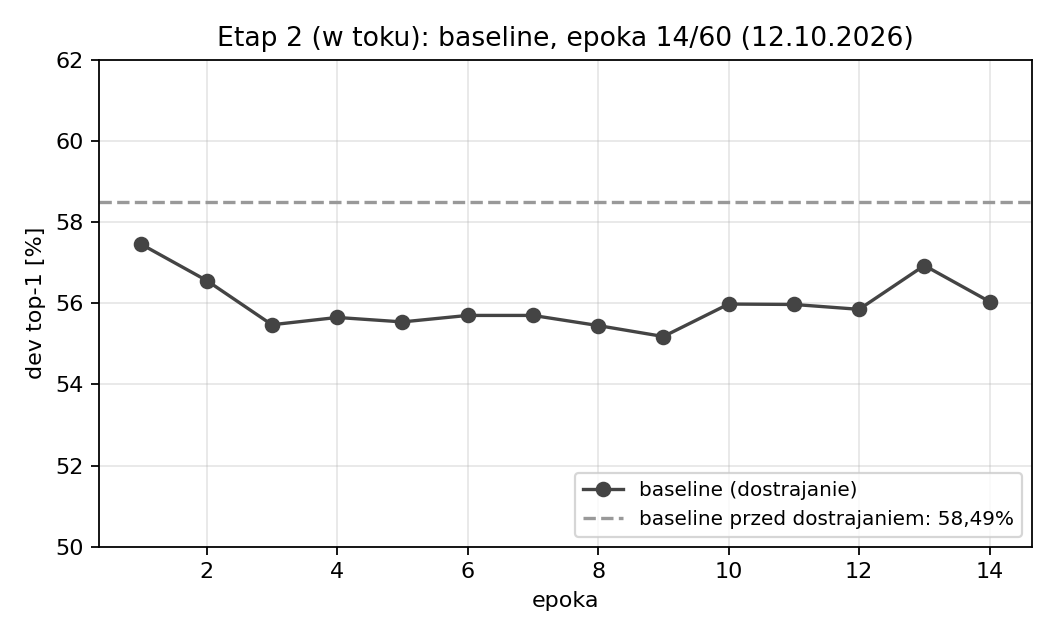
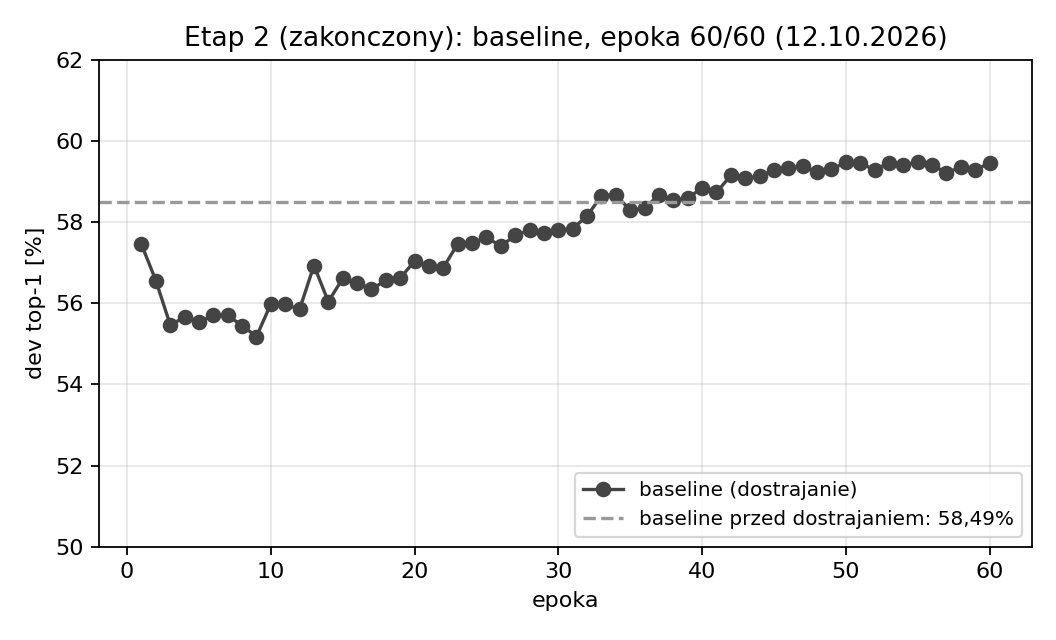
Record E008 final result and E009 progress; update status docs and supervisor presentation

diff --git a/reports/2026-10-12_promotor/prezentacja.html b/reports/2026-10-12_promotor/prezentacja.html
@@ -39,8 +39,8 @@
     <li>Środowisko: 4×RTX 2080 Ti (DDP), pomiary deterministyczne; Tiny ImageNet i CIFAR-100</li>
     <li>Repozytorium: <span class="small">github.com/Lidka99/attention-aware-compression</span></li>
   </ul>
-  <div class="note">Trwa ostatni bieg (kompresja 10% i 30% na baseline 224 — etap naprawy);
-    slajd „Etap 2 w toku" pokazuje stan na 12.10, 05:08 UTC.</div>
+  <div class="note">E008 zakończony (60 epok równej naprawy) — wyniki na slajdzie „Etap 2 — wynik".
+    Trwa E009: naprawa 120 epok (stan 13.10, 07:10 UTC).</div>
 </section>
 
 <section class="slide">
@@ -244,19 +244,36 @@
 </section>
 
 <section class="slide">
-  <h2>Etap 2 — równe dostrajanie (w toku, stan 12.10, 05:08 UTC)</h2>
+  <h2>Etap 2 — wynik po 60 epokach równego dostrajania (30% redukcji)</h2>
   <div class="row">
-    <img src="wykresy/fig_etap2_w_toku.png" alt="Etap 2 w toku">
+    <img src="wykresy/fig_etap2_wyniki.png" alt="Etap 2 wynik">
     <ul>
-      <li>Dostrajane sekwencyjnie: baseline, potem „przed SE", „po SE", „losowo" — każdy 60 epok,
-          identyczna receptura.</li>
-      <li>Bieżący wariant: baseline, epoka <b>12/60</b>; początkowy spadek dev po restarcie
-          współczynnika uczenia — oczekiwany; porównanie liczy się na końcu, przy równym budżecie.</li>
-      <li>Szacowany koniec całości: <b>~16:50 UTC</b>; potem automatyczne podsumowanie z bootstrapem
-          („po SE minus przed SE").</li>
-      <li>Na tej podstawie: decyzja o dalszym kierunku (patrz ostatni slajd).</li>
+      <li>Po naprawie: baseline <b>59,45%</b> · po SE <b>58,32%</b> · przed SE 57,81% ·
+          losowo 57,55%.</li>
+      <li>Test główny (po SE minus przed SE): <b>+0,51 pp, CI [−0,18; +1,19]</b> —
+          próg (dolna granica &gt; 0) <b>nieprzekroczony</b>.</li>
+      <li>Po SE minus losowo: <b>+0,77 pp, CI [+0,03; +1,50]</b> — jedyna istotna przewaga
+          nad losowaniem, na granicy.</li>
+      <li>Wszystkie skompresowane modele poniżej baseline'u o 1,13–1,90 pp — kompresja 30%
+          nadal kosztuje istotnie.</li>
+      <li>Wniosek: „po atencji" nie przebija „przed atencją"; sygnał wyboru jest bardzo słaby.</li>
     </ul>
   </div>
+</section>
+
+<section class="slide">
+  <h2>Dłuższy budżet naprawy — E009 (120 epok) w toku</h2>
+  <ul>
+    <li>E008 odpowiada dla 60 epok; pytanie: czy dłuższa naprawa zmienia obraz różnic?
+        Osobny, zamrożony eksperyment: <b>120 epok, jeden ciągły cosine</b>, te same modele
+        startowe (identyczna kompresja i selekcja).</li>
+    <li>Start: 2026-10-12 15:59 UTC (automatycznie po E008); koniec: ~13.10 ~14:00 UTC.</li>
+    <li>Stan na 13.10, 07:10 UTC: baseline <b>60,04%</b> i przed SE <b>59,18%</b> po pełnych
+        120 epokach (oba powyżej wyników 60-epokowych); po SE w trakcie (~59%),
+        losowo w kolejce.</li>
+    <li>E009 rozstrzyga decyzję: zamknięcie wątku selekcji albo ścieżka publikacyjna
+        na baseline 224.</li>
+  </ul>
 </section>
 
 <section class="slide">
@@ -274,15 +291,17 @@
             (10%, CIFAR-100) oraz +5,7–8,7 pp (30%, Tiny 224) — jest realny sygnał.</li>
         <li>Bramki SE przetestowane rzetelnie i <b>uczciwie zamknięte</b> (wynik negatywny,
             z kontrolą FWER).</li>
-        <li>Trwa decydujący test: <b>naprawa przy 30%</b> na baseline 224.</li>
+        <li>E008: po 60 epokach naprawy <b>POST jedyny (o włos) istotnie ponad losowaniem</b>;
+            baseline po naprawie poprawiony do 59,45%.</li>
+        <li>Trwa E009 (120 epok naprawy) — odpowie, czy dłuższy budżet zmienia obraz.</li>
       </ul>
     </div>
     <div class="bad" style="flex:1 1 430px">
       <b>Nie wyszło:</b>
       <ul>
         <li><b>Hipoteza „attention-aware" niepotwierdzona:</b> kryterium po SE nie przewyższa
-            przed SE — ani po naprawie (10%, CIFAR-100), ani surowo na Tiny 224
-            (po SE wręcz słabsze).</li>
+            przed SE — ani po naprawie (10%, CIFAR-100), ani surowo na Tiny 224;
+            w E008 po 60 epokach naprawy POST−PRE +0,51 pp, CI obejmuje 0.</li>
         <li><b>Bramki SE nie przewidują</b> szkody scalenia ponad podobieństwo po SE
             (dolna granica przedziału &lt; 0).</li>
         <li>Po równym dostrojeniu przy 10% <b>różnice między kryteriami znikają</b> —
@@ -292,8 +311,8 @@
       </ul>
     </div>
   </div>
-  <div class="note">Otwarta kwestia rozstrzyga się dziś: czy przy 30% i równym dostrojeniu różnice
-    zostają (ścieżka publikacyjna) czy znikają (zamknięcie wątku selekcji „attention-aware").</div>
+  <div class="note">E008 (60 epok): próg nieprzekroczony. E009 (120 epok, w toku) rozstrzyga dziś
+    po południu: trwała przewaga (ścieżka publikacyjna) czy brak różnic (zamknięcie wątku selekcji).</div>
 </section>
 
 <section class="slide">
@@ -307,10 +326,13 @@
         <li>przy 10% redukcji <b>naprawa zaciera różnice</b> między kryteriami (losowy dorównuje);</li>
         <li>wybór kanałów oparty na podobieństwie jest <b>surowo lepszy od losowego</b> — jest sygnał,
             tylko nie atencyjny;</li>
-        <li>mamy baseline 224×224 <b>zgodny z literaturą</b> (58,5% vs 60,5% przy innych warunkach oceny).</li>
+        <li>mamy baseline 224×224 <b>zgodny z literaturą</b> (58,5% vs 60,5% przy innych warunkach oceny);</li>
+        <li>E008 po 60 epokach naprawy (30%): próg POST−PRE nieprzekroczony (+0,51 pp, CI [−0,18; +1,19]);
+            POST jedyny (o włos) istotnie ponad losowaniem; kompresja 30% kosztuje 1,13–1,90 pp.</li>
       </ul>
     </li>
-    <li><b>Dziś:</b> dokończyć etap naprawy przy 30% i napisać raport z wynikiem głównym.</li>
+    <li><b>Dziś:</b> E008 zakończony i udokumentowany; po południu kończy się E009 (120 epok naprawy) —
+        decyzja o kierunku po jego wyniku.</li>
     <li><b>Scenariusz A — różnice znikają po naprawie:</b> zamykamy wątek selekcji „attention-aware"
         przy badanych budżetach; decyzja: praca negatywno-analityczna vs zmiana pytania
         (większe kompresje, kwantyzacja, inne mechanizmy uwagi).</li>

diff --git a/reports/2026-10-12_promotor/prezentacja.md b/reports/2026-10-12_promotor/prezentacja.md
@@ -1,8 +1,8 @@
 # Kompresja sieci CNN a zachowanie atencji kanałowej — podsumowanie badań
 
-Prezentacja dla promotora · stan na 12.10.2026 · Lidia Cichońska
+Prezentacja dla promotora · stan na 13.10.2026 · Lidia Cichońska
 Wersja HTML (slajdy, druk do PDF): [prezentacja.html](prezentacja.html).
-Trwa ostatni bieg (naprawa przy 30%); sekcja „Etap 2 w toku" pokazuje stan na 05:08 UTC.
+E008 zakończony (wynik w sekcji 12); trwa E009 — naprawa 120 epok (stan 13.10, 07:10 UTC).
 
 ---
 
@@ -117,15 +117,27 @@ Trwa ostatni bieg (naprawa przy 30%); sekcja „Etap 2 w toku" pokazuje stan na 
   (przeciwnie niż na CIFAR-100).
 - Kontrola: baseline odtworzony co do obrazu (5849/10000).
 
-## 12. Etap 2 — równe dostrajanie (w toku; stan 12.10, 05:08 UTC)
+## 12. Etap 2 — wynik po 60 epokach równego dostrajania (30% redukcji)
 
-![Etap 2](wykresy/fig_etap2_w_toku.png)
+![Etap 2 wynik](wykresy/fig_etap2_wyniki.png)
 
-- Sekwencyjnie: baseline (epoka 12/60), potem przed SE, po SE, losowo — po 60 epok.
-- Początkowy spadek dev po restarcie LR — oczekiwany; porównanie na końcu, przy równym budżecie.
-- Koniec ~16:50 UTC; potem automatyczne podsumowanie z bootstrapem.
+- Po naprawie: baseline **59,45%** · po SE **58,32%** · przed SE 57,81% · losowo 57,55%.
+- Test główny (po SE minus przed SE): **+0,51 pp, CI [−0,18; +1,19]** — próg nieprzekroczony.
+- Po SE minus losowo: **+0,77 pp, CI [+0,03; +1,50]** — jedyna istotna przewaga nad losowaniem,
+  na granicy.
+- Wszystkie skompresowane modele poniżej baseline'u o 1,13–1,90 pp; kompresja 30% nadal kosztuje.
+- Wniosek: „po atencji" nie przebija „przed atencją"; sygnał wyboru jest bardzo słaby.
 
-## 13. Co wyszło, a co nie wyszło
+## 13. Dłuższy budżet naprawy — E009 (120 epok) w toku
+
+- Osobny, zamrożony eksperyment: **120 epok, jeden ciągły cosine**, te same modele startowe
+  (identyczna kompresja i selekcja co w E008).
+- Start: 2026-10-12 15:59 UTC (automatycznie po E008); koniec: ~13.10 ~14:00 UTC.
+- Stan 13.10, 07:10 UTC: baseline **60,04%** i przed SE **59,18%** po pełnych 120 epokach
+  (oba powyżej wyników 60-epokowych); po SE w trakcie (~59%), losowo w kolejce.
+- E009 rozstrzyga: zamknięcie wątku selekcji albo ścieżka publikacyjna na baseline 224.
+
+## 14. Co wyszło, a co nie wyszło
 
 **Wyszło:**
 
@@ -136,23 +148,27 @@ Trwa ostatni bieg (naprawa przy 30%); sekcja „Etap 2 w toku" pokazuje stan na 
 - **Wybór kanałów oparty na podobieństwie działa surowo:** +5,5–6 pp nad losowym (10%, CIFAR-100)
   oraz +5,7–8,7 pp (30%, Tiny 224) — jest realny sygnał.
 - Bramki SE przetestowane rzetelnie i **uczciwie zamknięte** (wynik negatywny, kontrola FWER).
-- Trwa decydujący test: naprawa przy 30% na baseline 224.
+- E008: po 60 epokach naprawy **POST jedyny (o włos) istotnie ponad losowaniem**; baseline
+  po naprawie poprawiony do 59,45%.
+- Trwa E009 (120 epok naprawy) — odpowie, czy dłuższy budżet zmienia obraz.
 
 **Nie wyszło:**
 
 - **Hipoteza „attention-aware" niepotwierdzona:** kryterium po SE nie przewyższa przed SE —
-  ani po naprawie (10%, CIFAR-100), ani surowo na Tiny 224 (po SE wręcz słabsze).
+  ani po naprawie (10%, CIFAR-100), ani surowo na Tiny 224; w E008 po 60 epokach naprawy
+  POST−PRE +0,51 pp, CI obejmuje 0.
 - **Bramki SE nie przewidują** szkody scalenia ponad podobieństwo po SE (dolna granica CI < 0).
 - Po równym dostrojeniu przy 10% różnice między kryteriami znikają — wybór losowy dorównuje
   (na przeuczonym baseline).
 - **Nowość badawcza wciąż niepotwierdzona** — brak pozytywnego wyniku publikacyjnego w obecnej formie.
 
-Otwarta kwestia rozstrzyga się dziś: czy przy 30% po naprawie różnice zostają (ścieżka publikacyjna)
-czy znikają (zamknięcie wątku).
+E008 (60 epok): próg nieprzekroczony. E009 (120 epok, w toku) rozstrzyga dziś po południu:
+trwała przewaga (ścieżka publikacyjna) czy brak różnic (zamknięcie wątku selekcji).
 
-## 14. Wnioski i plan dalszy
+## 15. Wnioski i plan dalszy
 
-- Dziś: dokończyć etap naprawy przy 30% i napisać raport z wynikiem głównym.
+- Dziś: E008 zakończony i udokumentowany; po południu kończy się E009 (120 epok naprawy) —
+  decyzja o kierunku po jego wyniku.
 - Scenariusz A (różnice znikają): zamknięcie wątku przy badanych budżetach; decyzja między pracą
   negatywno-analityczną a zmianą pytania (większe kompresje, kwantyzacja, inne mechanizmy uwagi).
 - Scenariusz B (różnice zostają): ścieżka publikacyjna na baseline 224 (pełna kompresja,

diff --git a/experiments/2026-10-12_E008_kompresja_224/WYNIKI.md b/experiments/2026-10-12_E008_kompresja_224/WYNIKI.md
@@ -1,0 +1,83 @@
+# E008 — wynik kompresji 10%/30% na baseline 224 i równego dostrajania (60 epok)
+
+Data: 2026-10-13 UTC. **Status wykonania: completed (exit 0; 2026-10-12 15:57 UTC).**
+Protokół przed uruchomieniem: [PROTOKOL_v1.md](PROTOKOL_v1.md), v1.1.
+Bieg: **`runs/E008/20261012T042932Z_0fd9962_seed42_tn1zlyim/`**,
+commit **`0fd9962`**, dirty=false.
+
+## Wynik główny — etap 2: równe dostrajanie (60 epok, 30% redukcji)
+
+| Model | dev top-1 | dev NLL | parametry |
+|---|---:|---:|---:|
+| BASE (dostrajanie baseline'u) | **59,45%** | 1,9930 | 4 263 748 |
+| POST (kryterium po SE) | **58,32%** | 1,9957 | 2 981 828 |
+| PRE (kryterium przed SE) | **57,81%** | 1,9889 | 2 981 828 |
+| RANDOM | **57,55%** | 2,0040 | 2 981 828 |
+
+Porównania sparowane po obrazach (bootstrap 10 000, stratyfikacja po klasach,
+`summary.json`):
+
+- **POST−PRE = +0,51 pp, CI [−0,18; +1,19]** → kryterium pierwszorzędne
+  (dolna granica > 0) **nieprzekroczone**.
+- POST−RANDOM = +0,77 pp, CI **[+0,03; +1,50]** → jedyna istotna przewaga
+  nad losowaniem, **na granicy istotności**.
+- PRE−RANDOM = +0,26 pp, CI [−0,49; +0,99] → brak różnicy.
+- BASE−POST = +1,13 pp [0,45; 1,82]; BASE−PRE = +1,64 pp [0,95; 2,33];
+  BASE−RANDOM = +1,90 pp [1,20; 2,59] — kompresja 30% kosztuje istotnie
+  także po naprawie.
+
+## Etap 1 — szkoda bez naprawy
+
+| Model | 10% redukcji | 30% redukcji |
+|---|---:|---:|
+| PRE | 47,42% | 9,67% |
+| POST | 47,07% | 6,65% |
+| RANDOM | 40,79% | 0,99% |
+| BASE | 58,49% (bramka odtworzona: 5849/10000) | — |
+
+Surowo: selekcja (PRE/POST) bije losową o **+5,7 do +8,7 pp**, ale **POST < PRE**
+przy obu budżetach — odwrotnie niż na CIFAR-100 (E003). Przy 30% bez naprawy
+model praktycznie się rozpada (1–10% top-1).
+
+## Interpretacja
+
+- Po równym dostrojeniu na mocniejszym baseline różnice między selekcjami są
+  **małe i w większości nieistotne**; „attention-aware" (POST) nie wygrywa
+  z PRE w teście głównym.
+- POST utrzymuje najwyższą pozycję wśród metod wyboru i jako jedyny jest
+  (o włos) istotnie powyżej RANDOM — sygnał wyboru istnieje, ale jest słaby.
+- Kompresja 30% nadal kosztuje istotnie (~1,1–1,9 pp) po 60 epokach naprawy.
+- **Kontynuacja: E009** — naprawa **120 epok** (te same modele startowe,
+  jeden ciągły cosine), uruchomiony automatycznie 2026-10-12 15:59 UTC;
+  stan 13.10 07:10: BASE **60,04%**, PRE **59,18%** (po 120 epokach),
+  POST w trakcie (~59% przy ep. 86/120), RANDOM w kolejce; koniec ~13.10 ~14:00.
+  E009 rozstrzygnie, czy dłuższy budżet zmienia obraz różnic.
+
+## Dane i wykonanie
+
+- Baseline E007 (`718bbb26…`, dev 58,49%); plany strukturalne 10%/30%
+  (1048 / 3168 usuniętych kanałów); kalibracja A=1000 (5/klasę) do par i α/β,
+  B=1000 do diagnostyki, seed 20261015; dev 10 000 (50/klasę); rezerwa
+  i test **nietknięte**.
+- Etap 1: 4 rangi, momenty FP64, rank0 wybrał grupy (przed oceną), dev
+  (batch 64, FP32, deterministycznie), diagnostyka B. Etap 2: warianty
+  sekwencyjnie na 4 GPU: 60 epok AdamW lr 3e-4 (warmup 3, cosine → 3e-6),
+  LS 0,1, clip 1,0, augmentacje jak w treningu bazowym, batch 32/GPU.
+- Czas: etap 1 ~10 min; etap 2 ~11,5 h. `artifacts.sha256`: 107 wpisów.
+
+## Artefakty i hashe
+
+- `summary.json` (`bd3faa05df8e51c1…`), `stage1/stage1_metrics.json`,
+  `stage2/stage2_metrics.json`, `dev_final_{BASE,PRE,POST,RANDOM}.npz`,
+  modele `models/*.pt` (etap 1) i `stage2/last_*.pt`.
+
+## Ograniczenia
+
+Jeden seed; dev nie jest niezależnym testem (wybierał epokę w E007);
+60 epok naprawy mogło nie w pełni zbiec — adresuje to E009; wyniki obowiązują
+dla tego baseline i tych budżetów.
+
+## Następny krok
+
+E009 (120 epok) → porównanie budżetów 60 vs 120 epok i decyzja o kierunku
+publikacyjnym (zamknięcie wątku selekcji vs pełna ścieżka na baseline 224).

diff --git a/AKTUALNY_PLAN.md b/AKTUALNY_PLAN.md
@@ -16,14 +16,10 @@ Sprawdzić, czy zachowanie atencji kanałowej pomaga wybierać kanały do połą
 5. **Wspólne dostrajanie po kompresji — wykonane.** [E004, wyniki](experiments/2026-10-10_E004_wspolne_dostrajanie/WYNIKI.md): po 120 epokach równego dostrajania BASE 67,62%, PRE 66,96%, POST 67,32%, RANDOM 67,30%. POST−PRE +0,36 pp, przedział [−0,30; +1,02] pp. **Różnice między metodami wyboru zniknęły; wybór losowy dorównał atencyjnemu.** Przy 10% redukcji o wyniku decyduje naprawa, nie selekcja.
 6. **Kryterium z bramek SE — E006 zakończony (2026-10-11, wynik negatywny).** [Wyniki](experiments/2026-10-11_E006_kryterium_bramkowe_predykcja/WYNIKI.md): kontrola `s_post` działa kierunkowo (ρ = −0,155), ale `g_pert` nie przewiduje szkody ponad `s_post` (Δρ = +0,199, przedział [−0,020; +0,411]; cząstkowa +0,047). Wątek bramek jako sygnału ponad z zamknięty zgodnie z protokołem.
 7. **Nowy baseline 224×224 — E007 zakończony (2026-10-12).** [Wyniki](experiments/2026-10-11_E007_baseline_224/WYNIKI.md): 100 epok od zera na 4 GPU, run `runs/E007/20261011T061825Z_4de51b3_seed42_24mzpz80` (commit `4de51b3`, protokół 1.0, ~4h37m, ~165 s/epokę). Dev top-1 (epoka 100, wynik główny) **58,49%** (5849/10000); najlepszy dev 58,58% (epoka 98); train 99,50%; dev NLL 2,0001. Powyżej E005 (51,53% przy 96×96), poniżej kotwicy Shahriar 2026 (60,54%; porównanie jakościowe, ich ocena na oficjalnym val, nasza na dev). Zastępuje E005 w roli głównego punktu odniesienia do badań kompresji.
+8. **Kompresja na baseline 224 — E008 zakończony; E009 w toku.** [Wyniki E008](experiments/2026-10-12_E008_kompresja_224/WYNIKI.md): bez naprawy selekcja > losowa (10%: 47,4/47,1 vs 40,8; 30%: 9,7/6,7 vs 1,0), ale POST < PRE; po 60 epokach naprawy BASE 59,45 / POST 58,32 / PRE 57,81 / RANDOM 57,55; POST−PRE +0,51 pp (CI [−0,18; +1,19]) — próg nieprzekroczony; POST istotnie ponad RANDOM na granicy (CI [+0,03; +1,50]). E009 (naprawa 120 epok, te same modele startowe, [protokół](experiments/2026-10-12_E009_naprawa_120/PROTOKOL_v1.md)) trwa: BASE 60,04%, PRE 59,18% po 120 epokach (stan 13.10 07:10).
 
 ## Najbliższy krok
 
-E007 zakończony: mamy baseline **224×224 pod publikację** (dev 58,49%, [WYNIKI](experiments/2026-10-11_E007_baseline_224/WYNIKI.md)). Kolejny krok pozostaje **decyzją użytkowniczki**:
-
-- (a) **szybki test 30% redukcji** na tym baseline (kandydat E008) — E003/E004 testowały tylko 10% na CIFAR-100 i po równym dostrajaniu różnice między metodami wyboru zniknęły; 30% to sygnał, czy selekcja kanałów zaczyna mieć znaczenie;
-- (b) **inne warianty**, np. mocniejsza receptura przeciw przeuczeniu, dodatkowe seedy.
-
-Otwieramy ją jako otwartą decyzję, bez przesądzania. E003/E004/E006/E007 pozostają niezmienione, rezerwy i testu nie używamy. [Rejestr decyzji](docs/DECISIONS.md).
+E008 zakończony, E009 w toku (wynik ~13.10 ~14:00 UTC, [protokół](experiments/2026-10-12_E009_naprawa_120/PROTOKOL_v1.md)). Po E009 porównanie budżetów naprawy (60 vs 120 epok) i decyzja o kierunku publikacyjnym: (a) jeśli w dłuższym budżecie różnice między selekcjami pozostają nieistotne — zamykamy wątek i decydujemy o formie pracy (wynik negatywny/analiza), (b) jeśli pojawia się trwała przewaga — pełna ścieżka publikacyjna na baseline 224. Decyzja należy do użytkowniczki. E003/E004/E006/E007/E008 pozostają niezmienione, rezerwy i testu nie używamy. [Rejestr decyzji](docs/DECISIONS.md).
 
 [PLAN_DZIALANIA.md](PLAN_DZIALANIA.md) to historyczny szkic, nie bieżąca kolejność działań.

diff --git a/README.md b/README.md
@@ -2,7 +2,7 @@
 
 Reproducible experiments on attention-aware channel merging and CNN compression.
 
-Status: E001–E007 zakończone. E003/E004: przy 10% redukcji po równym dostrajaniu wybór kanałów nie dał przewagi (RANDOM dorównał). E005: baseline Tiny ImageNet od zera — dev 51,53% przy 96×96. E006: sygnał z bramek SE nie przewiduje szkody scalenia ponad podobieństwo po SE (primary_passed=false); wątek zamknięty. E007: baseline 224×224 pod publikację — dev 58,49% przy 100 epokach od zera. Nowość badawcza niepotwierdzona.
+Status: E001–E008 zakończone; E009 w toku. E003/E004: przy 10% redukcji po równym dostrajaniu wybór kanałów nie dał przewagi (RANDOM dorównał). E005/E007: baseline'y Tiny ImageNet 96×96 (51,53%) i 224×224 (58,49%). E006: bramki SE nie przewidują szkody ponad s_post; wątek zamknięty. E008: po 60 epokach równej naprawy POST−PRE +0,51 pp (CI obejmuje 0), POST na granicy istotnie ponad RANDOM; startował E009 (120 epok naprawy). Nowość badawcza niepotwierdzona.
 
 ## Od czego zacząć
 
@@ -29,6 +29,10 @@ Wynik negatywny: g_pert ≈ 0 ponad s_post; wątek bramek zamknięty.
 **[E007 — baseline 224×224 pod publikację](experiments/2026-10-11_E007_baseline_224/WYNIKI.md)**,
 [protokół](experiments/2026-10-11_E007_baseline_224/PROTOKOL_v1.md).
 100 epok od zera na 4 GPU (run `4de51b3`); dev top-1 58,49% (epoka 100), train 99,50%, dev NLL 2,0001. Zastępuje E005 jako główny punkt odniesienia.
+
+**[E008 — wynik kompresji na baseline 224](experiments/2026-10-12_E008_kompresja_224/WYNIKI.md)**,
+[protokół](experiments/2026-10-12_E008_kompresja_224/PROTOKOL_v1.md).
+Etap 1 bez naprawy: 10% → PRE 47,4 / POST 47,1 / RANDOM 40,8; 30% → 9,7 / 6,7 / 1,0. Etap 2 (60 epok): BASE 59,45 / POST 58,32 / PRE 57,81 / RANDOM 57,55; POST−PRE +0,51 pp (CI [−0,18; +1,19]); POST−RANDOM na granicy istotności. Trwa E009 (120 epok naprawy).
 
 [Sposób dokumentowania](docs/DOKUMENTOWANIE.md): audyt i wykresy zostają przy eksperymencie; każde uruchomienie ma osobny katalog wyników.
 

diff --git a/AGENTS.md b/AGENTS.md
@@ -11,7 +11,7 @@ Ustalenie 2026-09-29: wykresy i audyt istniejącego eksperymentu pozostają w je
 - Dla reprodukowalności zapisujemy modele GPU, wersje środowiska, przypisanie zadań lub procesów do GPU, seedy i sposób agregacji wyników. Przy treningu zapisujemy też batch size na GPU i efektywny globalny batch size, uwzględniając akumulację gradientów. Cztery GPU nie oznaczają automatycznie czterech niezależnych powtórzeń.
 - Każdy plik z kodem eksperymentu zaczyna się krótkim komentarzem lub docstringiem: co robi, jakiego eksperymentu dotyczy, jakie dane przyjmuje i jakie wyniki zapisuje. Zawiera też odnośnik do pełnego OPIS.md.
 
-E001–E007 ukończono. E003/E004: przy 10% redukcji wybór kanałów nie dał przewagi po równym dostrajaniu. E005: nowy baseline Tiny ImageNet od zera, dev 51,53% (96×96). E006 (protokół 1.1): sygnał z bramek SE nie przewiduje szkody scalenia ponad s_post (primary_passed=false, korelacja cząstkowa +0,047); wątek bramek zamknięty. E007: baseline 224×224 pod publikację, dev 58,49% (100 epok, run 4de51b3). Decyzja o kolejności (test 30% vs inne warianty) należy do użytkowniczki. Używamy środowiska Conda attention, bez publicznych wag i bez zmiany wcześniejszych wyników.
+E001–E008 ukończono; E009 w toku. E003/E004: przy 10% redukcji wybór kanałów nie dał przewagi po równym dostrajaniu. E005: baseline 96×96, dev 51,53%. E006: bramki SE nie przewidują szkody ponad s_post; wątek zamknięty. E007: baseline 224×224, dev 58,49%. E008 (protokół 1.1): bez naprawy selekcja > losowa, ale POST < PRE; po 60 epokach naprawy POST−PRE +0,51 pp (CI [−0,18; +1,19] — próg nieprzekroczony), POST istotnie ponad RANDOM (CI [+0,03; +1,50], na granicy); BASE 59,45%. E009 (120 epok naprawy, te same modele startowe) wystartował 2026-10-12, wynik ~13.10. Używamy środowiska Conda attention, bez publicznych wag i bez zmiany wcześniejszych wyników.
 
 ## Daty w nazwach eksperymentów
 

diff --git a/docs/DECISIONS.md b/docs/DECISIONS.md
@@ -113,3 +113,11 @@ Decyzja/konsekwencje:
   używamy.
 
 Dokumentacja: [WYNIKI.md](../experiments/2026-10-11_E007_baseline_224/WYNIKI.md).
+
+## 2026-10-13 — E008 zakończony; E009 (120 epok naprawy) w toku
+
+Bieg runs/E008/20261012T042932Z_0fd9962_seed42_tn1zlyim (protokół 1.1, commit 0fd9962) zakończony 2026-10-12 15:57 UTC (exit 0). Etap 1 bez naprawy: 10% → PRE 47,42 / POST 47,07 / RANDOM 40,79; 30% → PRE 9,67 / POST 6,65 / RANDOM 0,99 (BASE 58,49, bramka odtworzona); selekcja > losowa, ale POST < PRE (odwrotnie niż na CIFAR-100). Etap 2 po 60 epokach równej naprawy: BASE 59,45 / POST 58,32 / PRE 57,81 / RANDOM 57,55; POST−PRE +0,51 pp, CI [−0,18; +1,19] → kryterium pierwszorzędne nieprzekroczone; POST−RANDOM +0,77 pp, CI [+0,03; +1,50] — jedyna istotna przewaga nad losowaniem, na granicy; wszystkie skompresowane poniżej BASE (o 1,13–1,90 pp).
+
+Decyzja użytkowniczki (2026-10-12): dłuższy budżet naprawy jako osobny eksperyment — E009: 120 epok, jeden ciągły cosine, te same modele startowe (etap 1 E008), cztery warianty równo. Bieg runs/E009/20261012T155859Z_fef2836_seed42_jsagnut2 wystartował automatycznie 2026-10-12 15:59 UTC (launcher wymaga ukończonego E008); koniec ~13.10 ~14:00.
+
+Dokumentacja: [WYNIKI.md E008](../experiments/2026-10-12_E008_kompresja_224/WYNIKI.md); [PROTOKOL_v1.md E009](../experiments/2026-10-12_E009_naprawa_120/PROTOKOL_v1.md).
